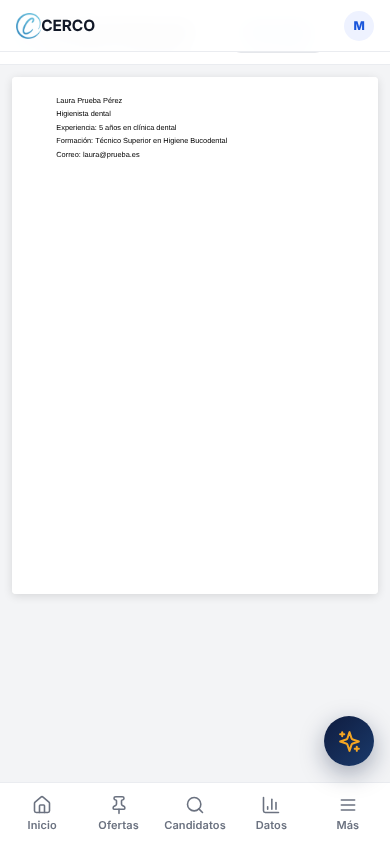
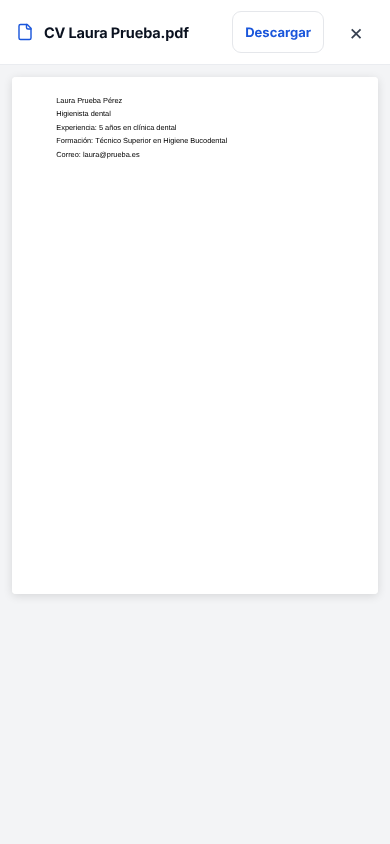
Arreglo: en el móvil el visor del CV ya no queda tapado por la barra superior
El visor del CV completo estaba en una capa por debajo de las barras del móvil
y del botón de Seimian. Ahora queda por encima: se ven el nombre del archivo,
«Descargar» y la «×» para cerrar. La prueba pulsa la «×» de verdad también en
el móvil.

Claude-Session: https://claude.ai/code/session_01L5qSpH5ECCjMh1xfSpjWDJ

diff --git a/pruebas/e2e/10-recorrido.spec.js b/pruebas/e2e/10-recorrido.spec.js
@@ -256,19 +256,12 @@ test('5. La clínica ve la solicitud, la ficha grande, me interesa, entrevista y
 
   // El CV completo se puede ver sin descargarlo
   await page.click('#ficha-cv-ver');
-  await expect(page.locator('#cv-x')).toBeAttached();
-  if (test.info().project.name === 'ordenador') await seVe(page, 'CV Laura Prueba.pdf');
+  // El visor se ve entero (también en el móvil, por encima de la barra de arriba)
+  await seVe(page, 'CV Laura Prueba.pdf');
   await capturar(page, 'clinica-14-ver-cv');
   // Se cierra con la «×». (Con la tecla Esc hay un fallo ya existente: la
   // ficha deja de actualizarse. Está apuntado en PROGRESO.md.)
-  if (test.info().project.name === 'movil') {
-    // FALLO YA EXISTENTE (apuntado en PROGRESO.md): en el móvil la barra
-    // superior de CERCO tapa la cabecera del visor, y la «×» no se puede pulsar.
-    // Para poder seguir con el recorrido, la prueba la pulsa «por dentro».
-    await page.evaluate(() => document.getElementById('cv-x').click());
-  } else {
-    await page.click('#cv-x');
-  }
+  await page.click('#cv-x');
   await expect(page.getByText('CV Laura Prueba.pdf').locator('visible=true')).toHaveCount(0);
   await page.waitForTimeout(1500); // la ficha se vuelve a dibujar sola al abrirla (pasa a «vista»)
   await page.getByRole('button', { name: 'Me interesa', exact: true }).locator('visible=true').first().click();

diff --git a/index.html b/index.html
@@ -10881,7 +10881,7 @@ h2, h3{ letter-spacing:-0.02em; font-weight:700; }
     var c = buscar(id); if(!c) return;
     var nombre = 'CV ' + (c.nombre || 'candidato') + '.pdf';
     var m = document.createElement('div'); m.id = 'cv-visor';
-    m.style.cssText = 'position:fixed;inset:0;z-index:3000;background:rgba(10,14,30,.6);display:flex;justify-content:center;';
+    m.style.cssText = 'position:fixed;inset:0;z-index:9900;background:rgba(10,14,30,.6);display:flex;justify-content:center;';
     m.innerHTML = '<div role="dialog" aria-modal="true" aria-label="'+e(nombre)+'" style="background:#F3F4F6;width:100%;max-width:900px;height:100%;display:flex;flex-direction:column;">'
       + '<div style="display:flex;align-items:center;gap:10px;padding:10px 12px 10px 16px;background:#fff;border-bottom:1px solid #EAECF0;">'+sv('file','#1A56DB',18)+'<b style="flex:1;min-width:0;font-size:14.5px;overflow:hidden;text-overflow:ellipsis;white-space:nowrap;">'+e(nombre)+'</b>'
       + '<button type="button" onclick="descargarCVCandidato(\''+e(c.id)+'\')" style="background:#fff;border:1px solid #E5E7EB;border-radius:9px;padding:8px 12px;font:inherit;font-size:13px;font-weight:700;color:#1A56DB;cursor:pointer;">Descargar</button>'
